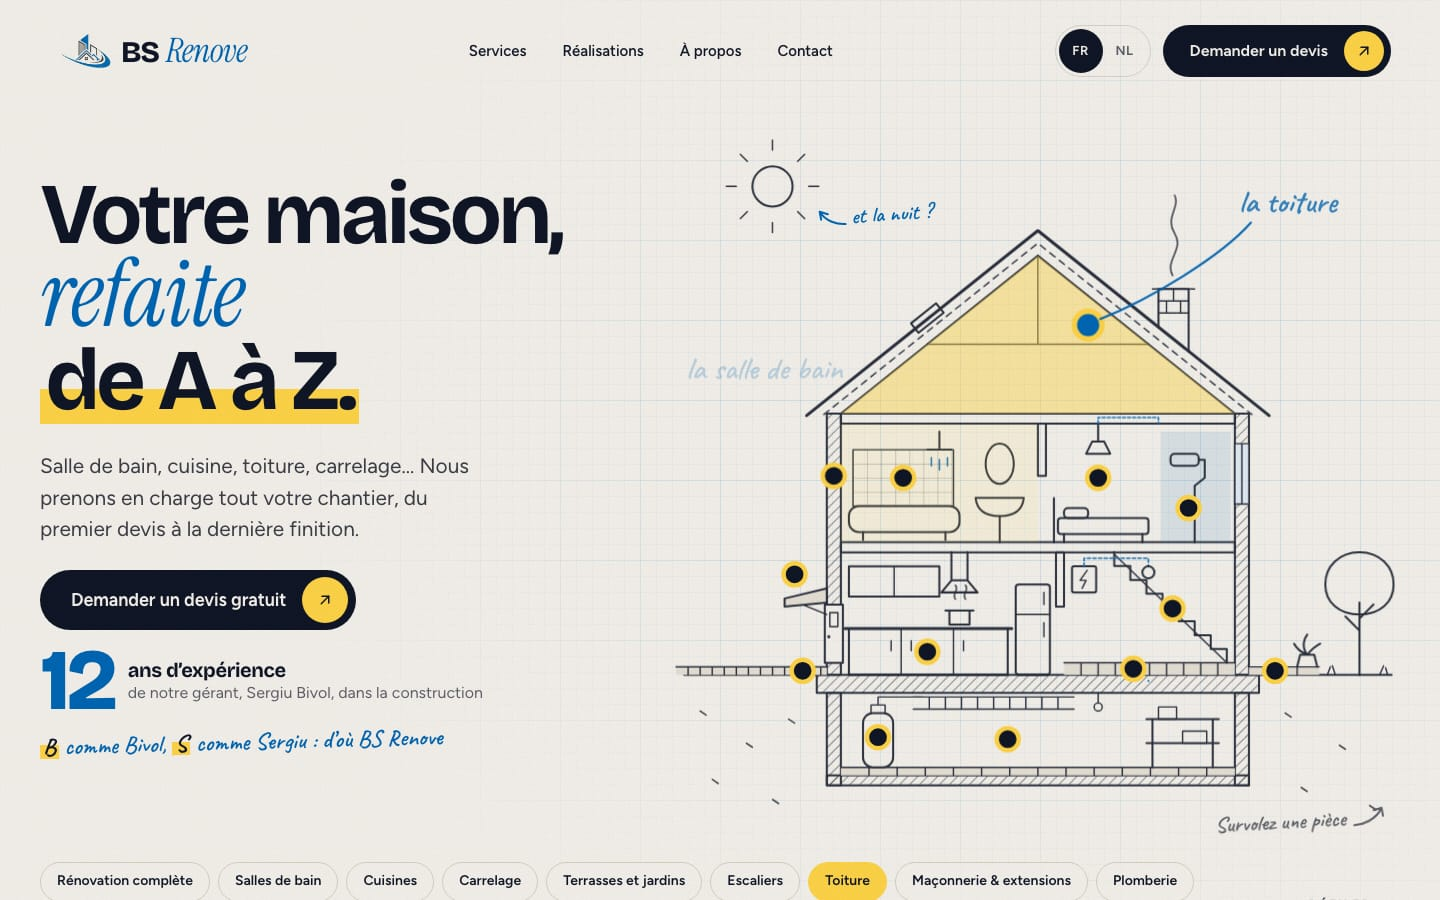
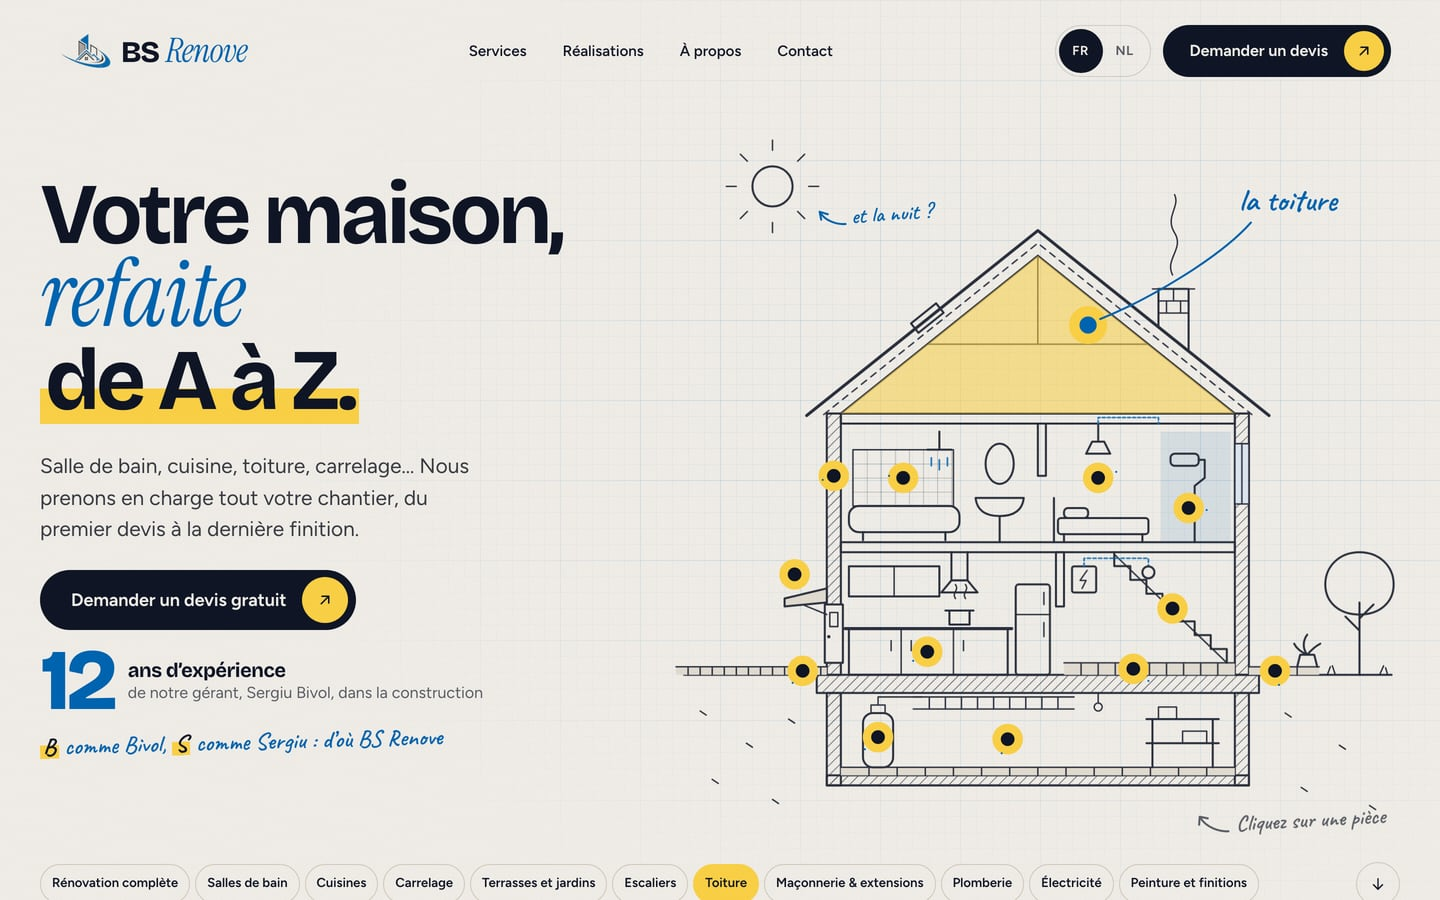
README : captures à jour, fiches de la maison, candidature, scores Lighthouse

diff --git a/README.md b/README.md
@@ -22,28 +22,33 @@ Un propriétaire qui cherche quelqu'un pour refaire sa salle de bain, sa toiture
 
 <img src="docs/captures/accueil-ordinateur.jpg" alt="Accueil sur ordinateur : le titre et la maison dessinée en coupe" width="100%">
 
-<img src="docs/captures/mobile.jpg" alt="Le site sur téléphone : accueil, réalisations, demande de devis" width="100%">
+<img src="docs/captures/mobile.jpg" alt="Le site sur téléphone : accueil, fiche d'une pièce de la maison, demande de devis" width="100%">
 
 ---
 
 ## Ce qu'on y trouve
 
 **🏠 Une maison dessinée en coupe**
-Le haut de l'accueil montre une maison vue en coupe, qui se dessine trait par trait à l'arrivée puis fait visiter ses pièces une à une : toiture, salle de bain, cuisine, escalier, cave, allée… Chaque pièce mène au métier correspondant ou à ses avant/après. Et un clic sur le soleil fait passer la maison **en mode nuit** : lune, étoiles et fenêtres allumées.
+Le haut de l'accueil montre une maison vue en coupe, qui se dessine trait par trait à l'arrivée puis fait visiter ses pièces une à une : toiture, salle de bain, cuisine, escalier, cave, allée… Un clic sur une pièce ouvre sa fiche sans quitter la page : le métier en quelques mots, un petit avant/après à faire glisser et un bouton pour en savoir plus. Sur ordinateur, la fiche s'ouvre à côté de la pièce ; sur téléphone, elle monte du bas de l'écran. Et un clic sur le soleil fait passer la maison **en mode nuit** : lune, étoiles et fenêtres allumées.
+
+<img src="docs/captures/maison-ordinateur.jpg" alt="La fiche de la salle de bain, ouverte à côté de la maison" width="100%">
 
 **↔ De vrais avant/après**
-29 comparaisons de chantiers réels. On fait glisser la poignée jaune pour passer de l'avant à l'après, au doigt, à la souris ou au clavier. La page Réalisations les range par pièce : salle de bain, douche, cuisine, toiture, terrasse…
+29 comparaisons de chantiers réels. On fait glisser la poignée jaune pour passer de l'avant à l'après, au doigt, à la souris ou au clavier ; sur téléphone, la page continue de défiler normalement. L'accueil en montre une sélection, la page Réalisations les range toutes par pièce : salle de bain, douche, cuisine, toiture, terrasse…
 
-<img src="docs/captures/avant-apres-ordinateur.jpg" alt="La section avant/après de l'accueil" width="100%">
+<img src="docs/captures/avant-apres-ordinateur.jpg" alt="La page Réalisations : les avant/après rangés par pièce" width="100%">
 
 **🧰 11 métiers**
-Rénovation complète, salles de bain, cuisines, carrelage, terrasses et jardins, escaliers, toiture, maçonnerie et extensions, plomberie, électricité, peinture et finitions. Chacun a sa description, ses exemples de travaux et son avant/après.
+Rénovation complète, salles de bain, cuisines, carrelage, terrasses et jardins, escaliers, toiture, maçonnerie et extensions, plomberie, électricité, peinture et finitions. Chacun a sa description, sa façon de travailler expliquée en quelques lignes, ses exemples de travaux et son avant/après. La page À propos présente l'entreprise, ses camionnettes et tout ce qu'elle sait faire.
 
 **📝 Un devis en deux étapes**
 1. Les travaux envisagés, à cocher.
 2. Le nom, le téléphone et un mot sur le projet.
 
 Une fois la demande envoyée, le visiteur peut ajouter ses photos par **WhatsApp** ou par **email**, avec sa demande déjà écrite dans le message.
+
+**👷 Rejoindre l'équipe**
+Les artisans peuvent poser leur candidature en quatre petites étapes, sur le même modèle que le devis : leur métier, leur expérience, ce qu'ils apportent sur le chantier (permis, véhicule, outils, langues) et leurs coordonnées. Ils envoient ensuite leur CV ou des photos de leurs chantiers par WhatsApp ou par email. Chaque métier de la page Services y mène directement, avec le métier déjà coché.
 
 **📱 Pensé d'abord pour le téléphone**
 Une barre toujours à portée de pouce (Appeler · WhatsApp · Devis), un menu plein écran, et le choix FR/NL directement en haut de l'écran.
@@ -71,10 +76,12 @@ Toutes les pages et tous les textes existent dans les deux langues. Le site s'ou
 
 | Lighthouse (mobile) | Performance | Accessibilité | Bonnes pratiques | SEO |
 |---|:---:|:---:|:---:|:---:|
-| Accueil | 94–98 | 100 | 100 | 100 |
-| Services | 96 | 100 | 100 | 100 |
+| Accueil | 94–95 | 100 | 100 | 100 |
+| Services | 96–100 | 100 | 100 | 100 |
+| Réalisations | 89–98 | 100 | 100 | 100 |
+| À propos | 95–98 | 100 | 100 | 100 |
 | Contact | 97 | 100 | 100 | 100 |
-| Réalisations | 91–93 | 100 | 100 | 100 |
+| Rejoindre l'équipe | 97–100 | 100 | 100 | 100 |
 
 **Accessible.** Lisible par tous : contrastes suffisants, navigation complète au clavier, texte alternatif sur chaque photo, curseurs avant/après utilisables sans souris. Les animations s'arrêtent pour ceux qui ont demandé à en voir moins.
 
